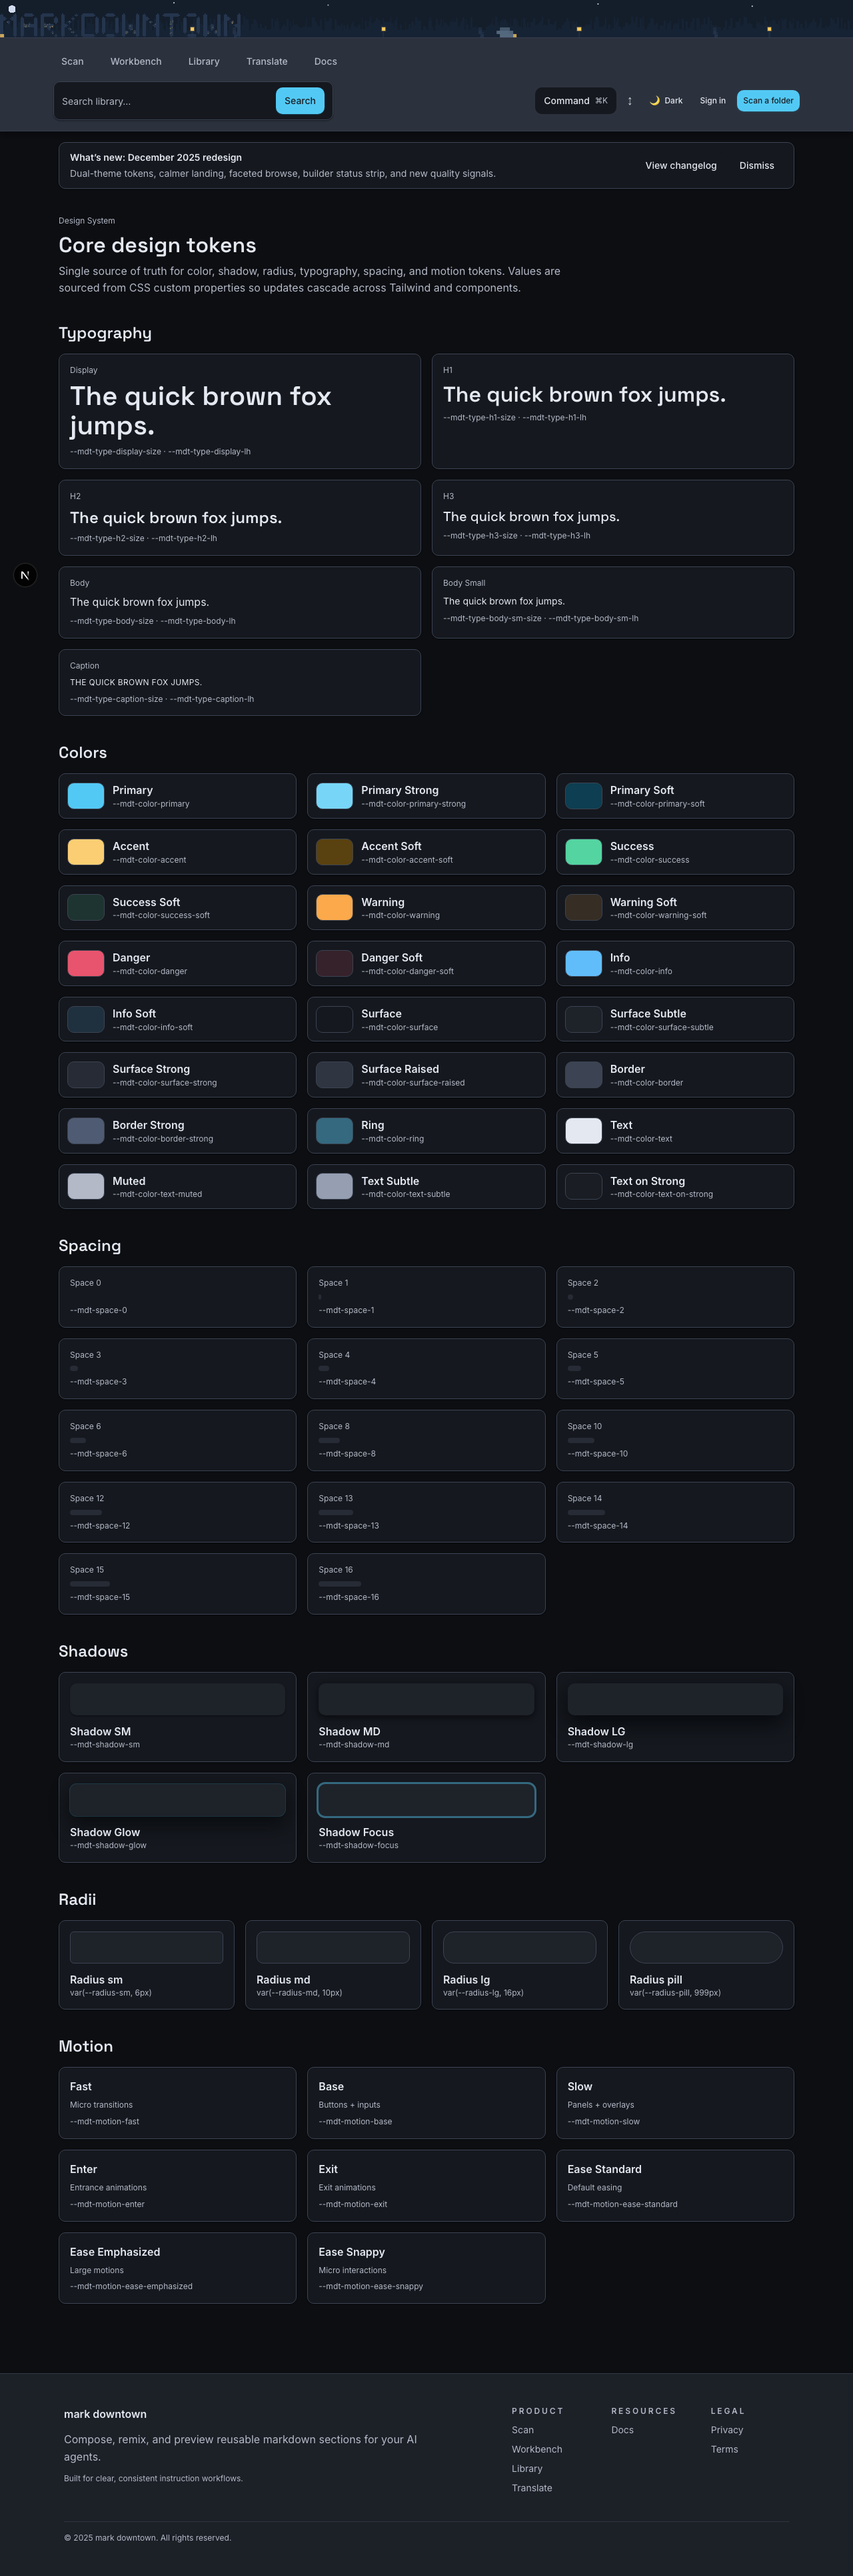
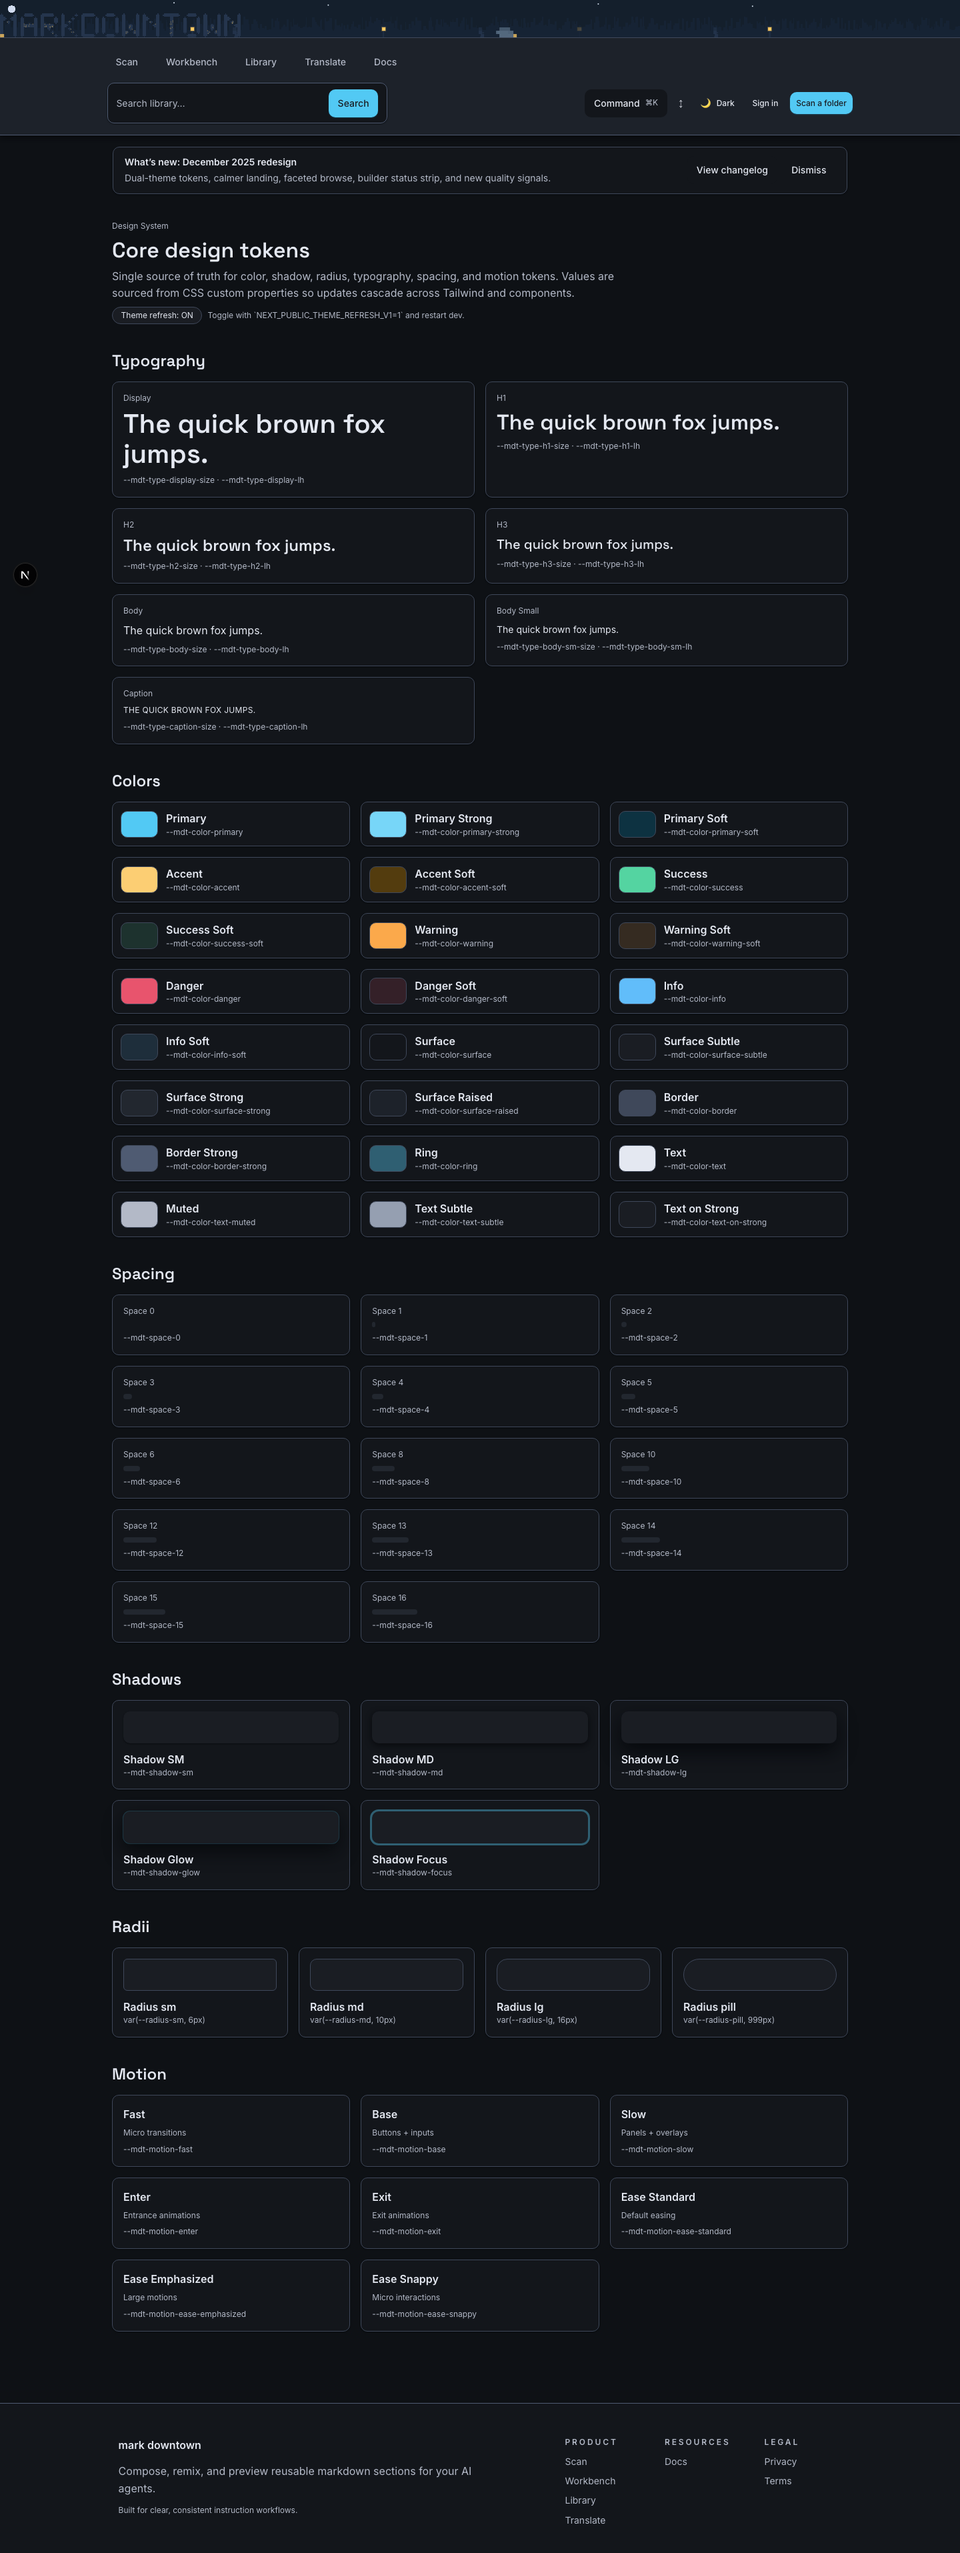
markdowntown-5664: refresh palette tokens
Update semantic token values, align data-viz hues, and refresh token screenshots.

Files: src/app/globals.css, docs/screenshots/palette-refresh/tokens-light.png, docs/screenshots/palette-refresh/tokens-dark.png, .beads/issues.jsonl

diff --git a/src/app/globals.css b/src/app/globals.css
@@ -123,7 +123,7 @@
   --mdt-neutral-900: hsl(222 50% 9%);
   --mdt-neutral-950: hsl(222 58% 5%);
 
-  /* Brand (cyan) */
+  /* Brand (cool cyan primary) */
   --mdt-brand-50: hsl(196 100% 96%);
   --mdt-brand-100: hsl(196 96% 90%);
   --mdt-brand-200: hsl(196 94% 82%);
@@ -133,7 +133,7 @@
   --mdt-brand-600: hsl(196 90% 46%);
   --mdt-brand-700: hsl(196 92% 38%);
 
-  /* Accent (amber) */
+  /* Accent (warm amber) */
   --mdt-amber-50: hsl(40 100% 96%);
   --mdt-amber-100: hsl(40 98% 90%);
   --mdt-amber-200: hsl(40 96% 82%);
@@ -154,11 +154,12 @@
   --mdt-info-600: hsl(204 94% 46%);
 
   /* ==== Semantic color roles (light) ==== */
+  /* Palette refresh: cool cyan primary + warm amber accent */
   --mdt-color-primary: var(--mdt-brand-500);
   --mdt-color-primary-strong: var(--mdt-brand-600);
-  --mdt-color-primary-soft: var(--mdt-brand-100);
+  --mdt-color-primary-soft: hsl(196 92% 94%);
   --mdt-color-accent: var(--mdt-amber-500);
-  --mdt-color-accent-soft: var(--mdt-amber-100);
+  --mdt-color-accent-soft: hsl(40 94% 92%);
   --mdt-color-success: var(--mdt-success-500);
   --mdt-color-success-soft: hsl(156 60% 44% / 0.15);
   --mdt-color-warning: var(--mdt-warning-500);
@@ -179,7 +180,7 @@
   /* Lines + rings */
   --mdt-color-border: var(--mdt-neutral-200);
   --mdt-color-border-strong: var(--mdt-neutral-300);
-  --mdt-color-ring: hsl(196 88% 54% / 0.55);
+  --mdt-color-ring: hsl(196 88% 54% / 0.45);
 
   /* Text */
   --mdt-color-text: var(--mdt-neutral-900);
@@ -194,8 +195,8 @@
   --mdt-data-4: var(--mdt-warning-500);
   --mdt-data-5: var(--mdt-danger-500);
   --mdt-data-6: var(--mdt-info-500);
-  --mdt-data-7: hsl(210 60% 56%);
-  --mdt-data-8: hsl(120 55% 44%);
+  --mdt-data-7: var(--mdt-brand-300);
+  --mdt-data-8: var(--mdt-amber-300);
 
   /* Wordmark (theme-inverted): light theme renders “night city” */
   --mdt-wordmark-building: hsl(222 36% 18%);
@@ -387,11 +388,12 @@
   --mdt-info-600: hsl(204 96% 74%);
 
   /* ==== Semantic color roles (dark) ==== */
+  /* Palette refresh: cool cyan primary + warm amber accent */
   --mdt-color-primary: var(--mdt-brand-500);
   --mdt-color-primary-strong: var(--mdt-brand-600);
-  --mdt-color-primary-soft: var(--mdt-brand-50);
+  --mdt-color-primary-soft: hsl(196 80% 20% / 0.6);
   --mdt-color-accent: var(--mdt-amber-500);
-  --mdt-color-accent-soft: var(--mdt-amber-50);
+  --mdt-color-accent-soft: hsl(40 90% 26% / 0.6);
   --mdt-color-success: var(--mdt-success-500);
   --mdt-color-success-soft: hsl(156 60% 58% / 0.15);
   --mdt-color-warning: var(--mdt-warning-500);
@@ -410,7 +412,7 @@
 
   --mdt-color-border: var(--mdt-neutral-400);
   --mdt-color-border-strong: var(--mdt-neutral-500);
-  --mdt-color-ring: hsl(196 90% 66% / 0.45);
+  --mdt-color-ring: hsl(196 90% 66% / 0.4);
 
   --mdt-color-text: var(--mdt-neutral-900);
   --mdt-color-text-muted: var(--mdt-neutral-700);
@@ -423,8 +425,8 @@
   --mdt-data-4: var(--mdt-warning-500);
   --mdt-data-5: var(--mdt-danger-500);
   --mdt-data-6: var(--mdt-info-500);
-  --mdt-data-7: hsl(210 70% 65%);
-  --mdt-data-8: hsl(120 60% 54%);
+  --mdt-data-7: var(--mdt-brand-300);
+  --mdt-data-8: var(--mdt-amber-300);
 
   /* Wordmark (theme-inverted): dark theme renders “lit city” */
   --mdt-wordmark-building: hsl(220 24% 88%);
